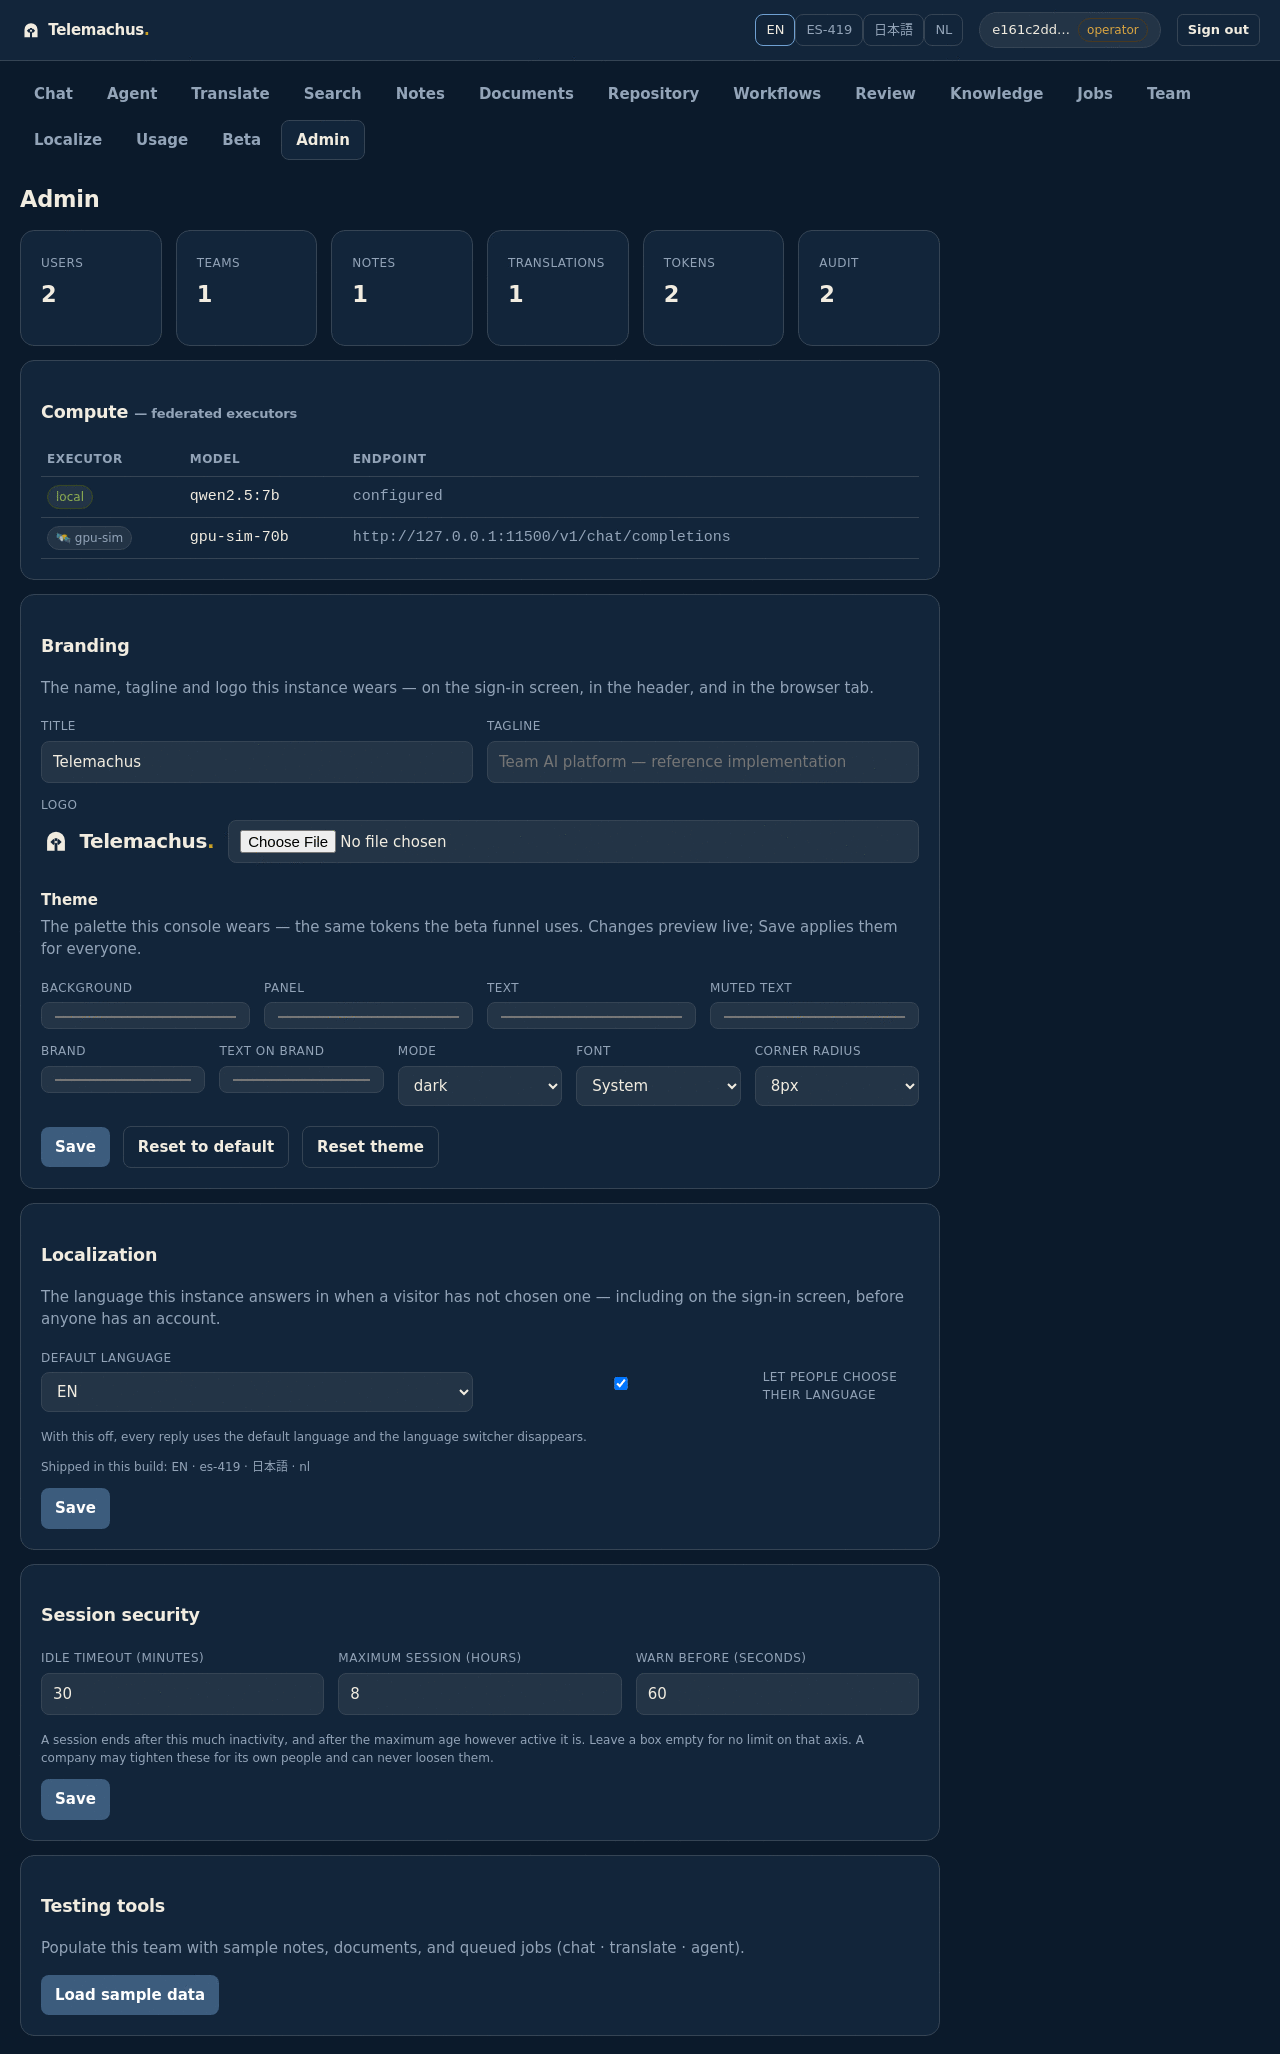
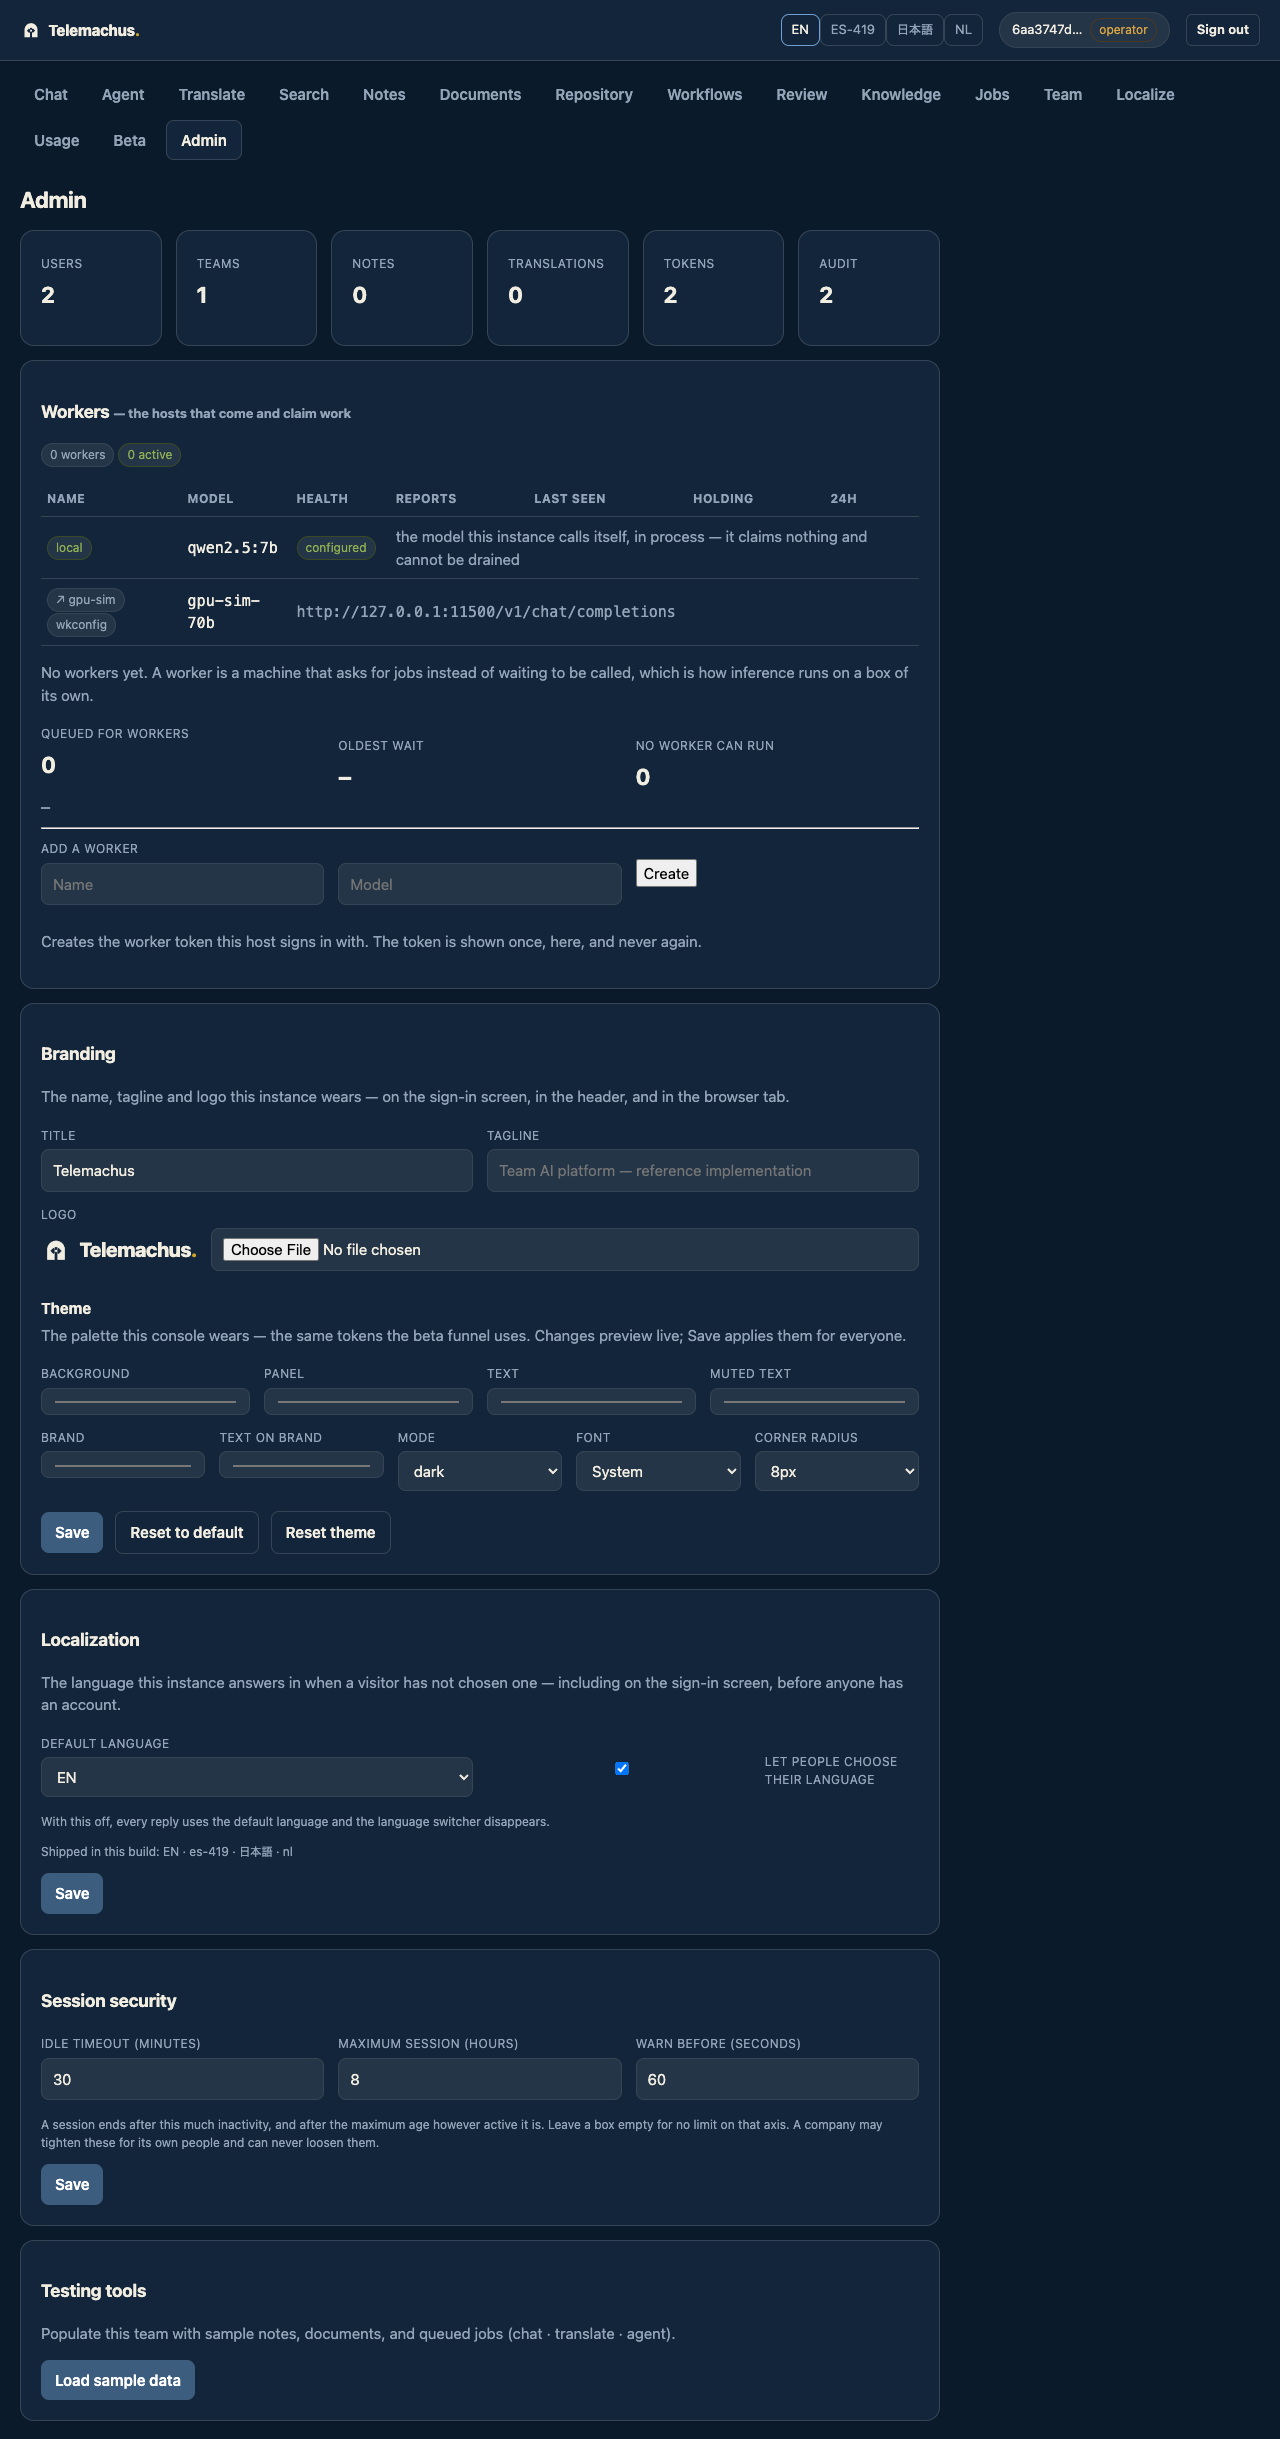
fix: the Workers card keeps the file-declared executors, and the tour follows
Two defects in de5bc6f, both found by the screenshot tour in CI while
validate.sh passed locally.

run-tour.mjs waited on the `Compute` heading the card replaced, so the tour
aborted at 8 of 10 screenshots. Its selector, title and caption now name
the Workers table, and the committed 09-admin.png, manifest.json, the
Japanese caption (re-hashed against the new English) and both READMEs'
generated tour regions were refreshed to match.

The real bug the tour's own assertion caught: it checks that `gpu-sim` is
visible, and gpu-sim comes from executors.json. The fleet read lists DB
rows only — which is right, those are what a drain or a retire can act on —
so building the table from it alone made every file-declared push executor
disappear from the console. They are merged back from GET /api/executors
and rendered with no actions, because the file owns their names and only an
edit-and-restart changes them. Two new ui.* strings say so, translated.

Verified: 1080 unit tests, pull-smoke and server-smoke, e2e/validate.sh 83
passed, docs drift 8/8, localize --required en,ja ok. The tours exit 1
locally on two pre-existing assert failures (chat and translate, which need
a reachable ollama) — identical on main, and both pass in CI.

diff --git a/refimpl/racketmaximus/static/index.html b/refimpl/racketmaximus/static/index.html
@@ -867,7 +867,19 @@ function workersCard(xr, fr){
     <td><span class="badge ${loc.configured?'ok':'warn'}">${loc.configured?t('wkconfigured'):t('simulated')}</span></td>
     <td colspan="5" class="muted">${t('wklocalhint')}</td></tr>` : '';
 
-  const body = [locRow].concat(pulls.map(row)).concat(pushes.map(row)).join('');
+  // Executors declared in executors.json are NOT in the fleet read — that one
+  // lists DB rows, which is what a drain or a retire can act on. They still
+  // belong on this table: dropping them would have made a configured push
+  // backend vanish from the console, which is how the screenshot tour caught
+  // this card the first time. Shown with no actions, because a file owns them.
+  const dbNames = ex.map(e=>e.name);
+  const fromFile = ((xr&&xr.ok) ? (xr.json.executors||[]) : [])
+    .filter(e=>(e.source||'config')==='config' && dbNames.indexOf(e.name)<0);
+  const fileRow=(e)=>`<tr>
+      <td><span class="badge">↗ ${esc(e.name)}</span> <span class="badge" title="${esc(t('wkconfighint'))}">${t('wkconfig')}</span></td>
+      <td class="mono">${esc(e.model||'–')}</td>
+      <td colspan="5" class="mono muted">${esc(e.url||'')}</td><td></td></tr>`;
+  const body = [locRow].concat(pulls.map(row)).concat(pushes.map(row)).concat(fromFile.map(fileRow)).join('');
   const none = pulls.length?'':`<p class="muted">${t('wknone')}</p>`;
 
   // The queue, and the one number a depth count cannot explain. `unclaimable`

diff --git a/CLAUDE.md b/CLAUDE.md
@@ -1351,7 +1351,17 @@ Built 15 Oct 2026. `POST /api/executors/:id/drain` and `/resume`,
   is no second chance; the copy says so rather than implying a recovery that
   does not exist. The retire confirmation names draining as the reversible
   alternative, because the destructive button was the only one for so long.
-- 40 new `ui.*` strings, hand-translated into `ja` in the same commit.
+- 42 new `ui.*` strings, hand-translated into `ja` in the same commit.
+- **A config-file push executor must still appear on the card.** The fleet read
+  lists DB rows only — what a drain or a retire can act on — so building the
+  table from it alone made every `executors.json` entry vanish from the console.
+  They are merged back in from `GET /api/executors` (`source: "config"`) and
+  shown with no actions, since the file owns them. **The screenshot tour is what
+  caught this**: `run-tour.mjs` asserts `gpu-sim` is visible, and it waited on
+  the `Compute` heading, so replacing that card broke the tour in CI while
+  `validate.sh` passed locally. A console change that renames or removes a card
+  means grepping `test/e2e/*.mjs` and updating the shot's caption, the manifest,
+  `captions.ja.json`'s hash and the README regions (`README_ONLY=1`).
 
 ```sh
 raco test test/fleet-tests.rkt   # reversibility, liveness, the closed vocabulary, both audits

diff --git a/README.md b/README.md
@@ -81,11 +81,11 @@ Members and roles (owner / admin / member / viewer). Every API call is authorize
 
 Windowed usage vs. limits, and every agent tool with a source badge: built-in, 🔌 plugin, mcp:mock (external MCP server), and 🛡 oop:notes-helper (sandboxed out-of-process, with declared scopes).
 
-### Admin & federated compute
+### Admin & the worker fleet
 
-![Admin & federated compute](docs/screenshots/09-admin.png)
+![Admin & the worker fleet](docs/screenshots/09-admin.png)
 
-Operator-only instance view. The Compute table lists the local node (qwen2.5:7b) and federated executors (🛰 gpu-sim) — the pluggable seam for remote/HPC compute.
+Operator-only instance view. The Workers table lists the local node (qwen2.5:7b), federated executors (↗ gpu-sim) and any pull worker — each with its derived health, what the worker itself reports, what it is holding, and a reversible Drain. Below it: the queue, and how many jobs no live worker can run.
 
 ### Localized top to bottom
 
